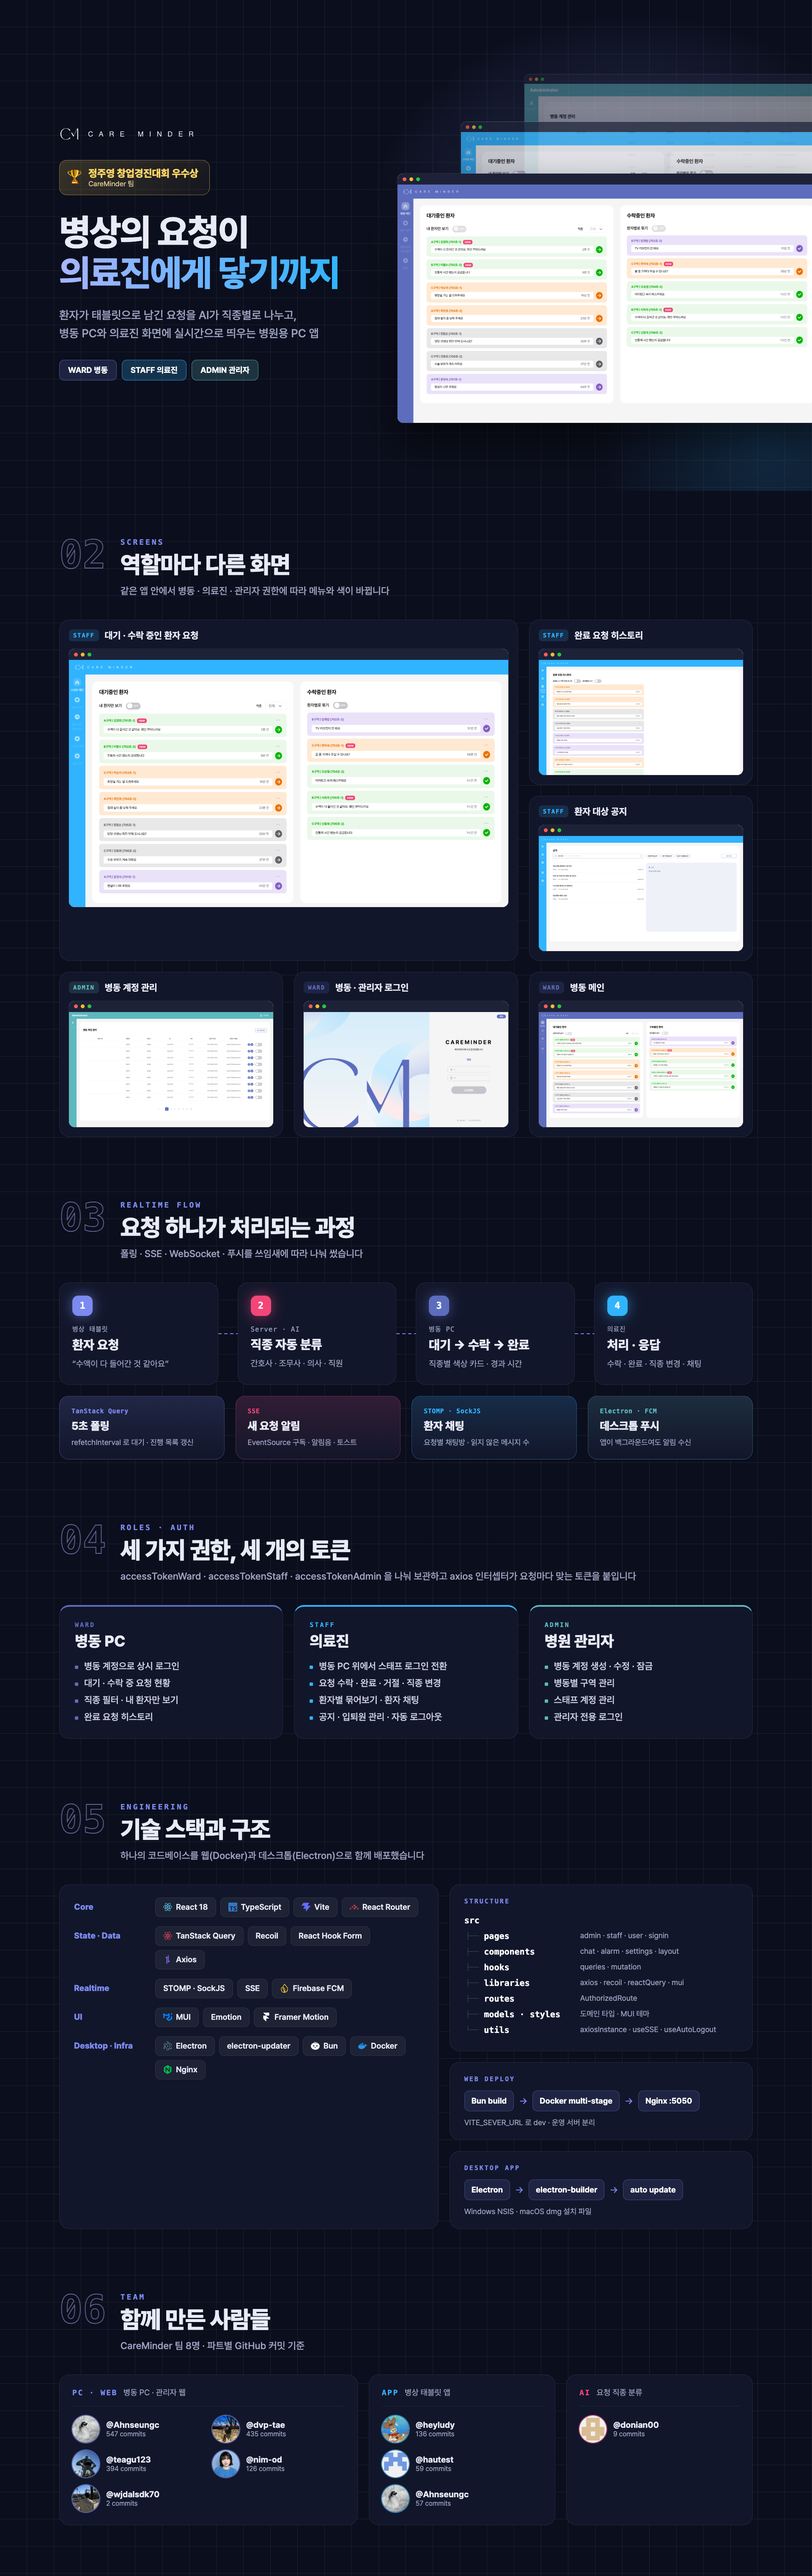
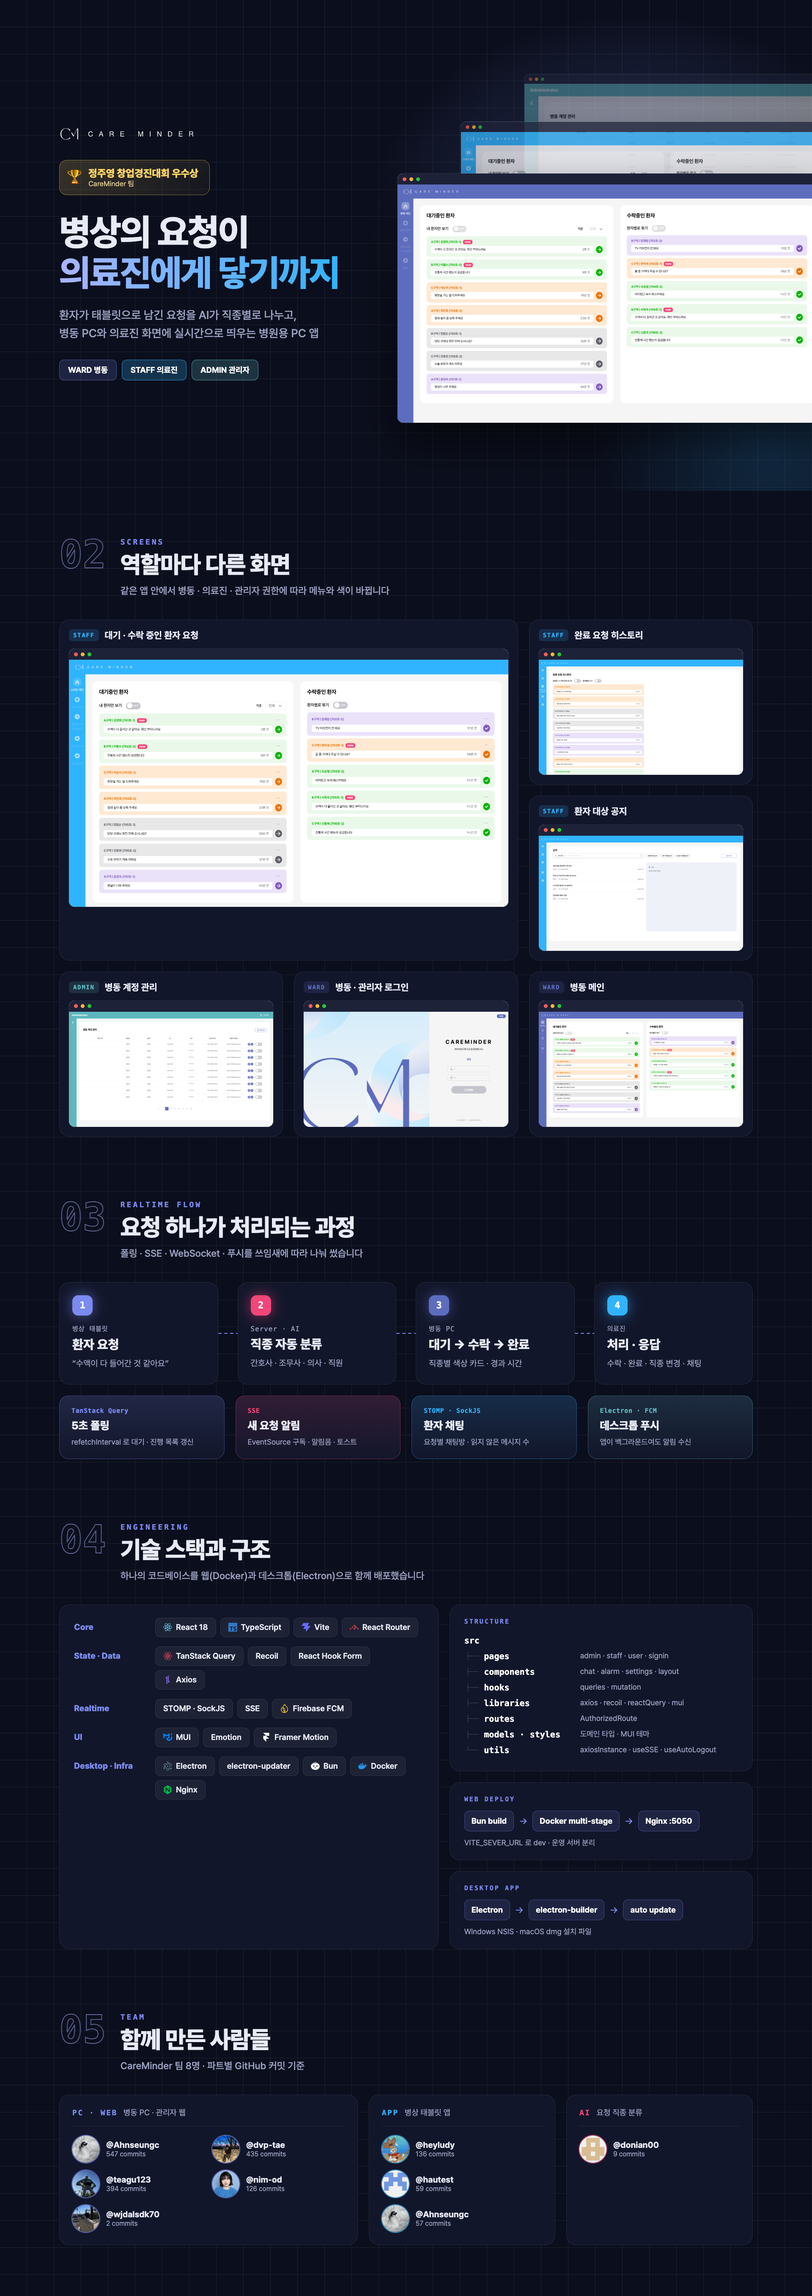
docs: README 이미지에서 권한·토큰 섹션 제거

diff --git a/README.md b/README.md
@@ -23,4 +23,4 @@ CareMinder-Basic 팀 프로젝트 · 2024.06 ~ 2025.03
 
 </div>
 
-<img src="docs/images/readme-overview.png" alt="CareMinder PC 화면, 기술 스택, 역할별 화면과 권한, 환자 요청 실시간 흐름, 폴더 구조, 웹과 데스크톱 배포, 함께 만든 사람들" />
+<img src="docs/images/readme-overview.png" alt="CareMinder PC 화면, 환자 요청 실시간 흐름, 폴더 구조, 웹과 데스크톱 배포, 함께 만든 사람들" />
